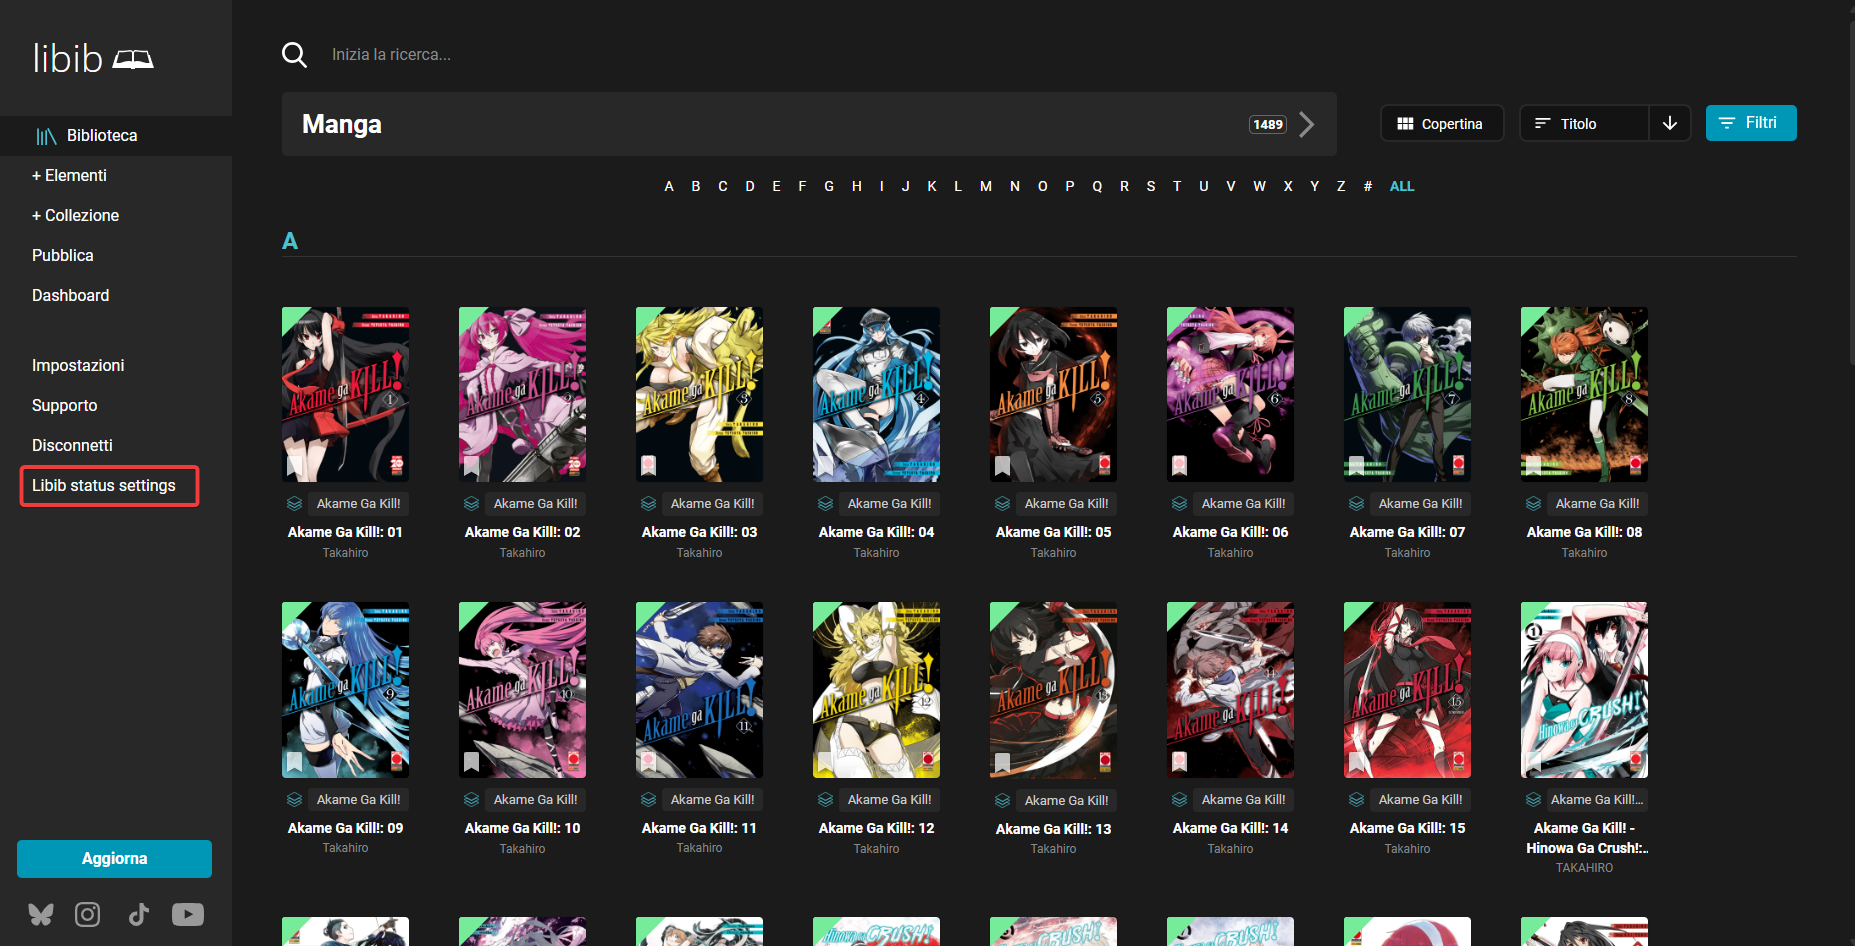
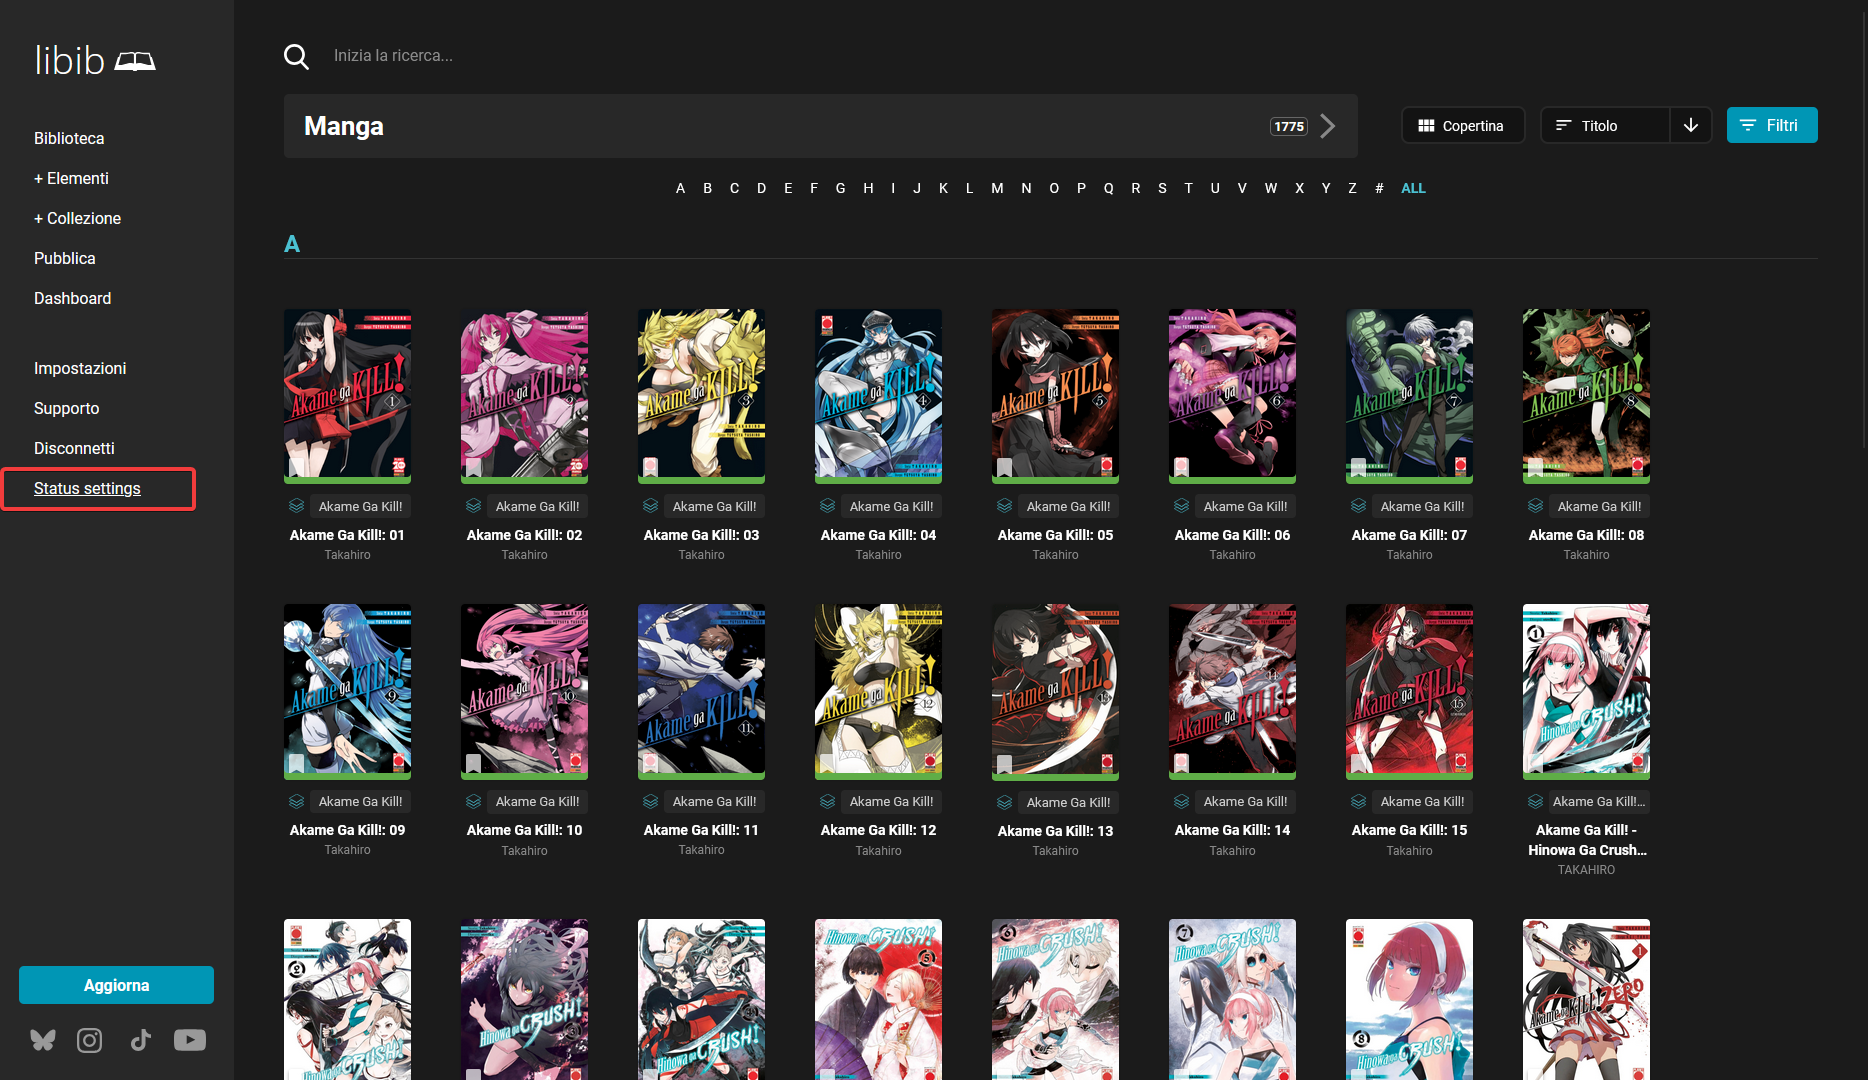
Changed settings button
- Changed the settings button from "Libib status settings" to "Status settings"
- Added COG icon on hover
- Updated readme image and links

diff --git a/Libib-Custom-Status-Style.user.js b/Libib-Custom-Status-Style.user.js
@@ -6,8 +6,8 @@
 // @author             JetpackCat
 // @namespace          https://github.com/JetpackCat-IT/libib-custom-status-style
 // @supportURL         https://github.com/JetpackCat-IT/libib-custom-status-style/issues
-// @icon               https://github.com/JetpackCat-IT/libib-custom-status-style/raw/v1.0.0/img/icon_64.png
-// @version            2.0.0
+// @icon               https://cdn.jsdelivr.net/gh/JetpackCat-IT/libib-custom-status-style/img/icon_64.png
+// @version            2.1.0
 // @license            GPL-3.0-or-later; https://raw.githubusercontent.com/JetpackCat-IT/libib-custom-status-style/master/LICENSE
 // @match              https://www.libib.com/library
 // @icon               https://www.libib.com/img/favicon.png
@@ -17,12 +17,35 @@
 // @grant              GM_setValue
 // @grant              GM.getValue
 // @grant              GM.setValue
-// @downloadURL        https://update.greasyfork.org/scripts/526007/Libib%20-%20Custom%20status%20indicator%20style.user.js
-// @updateURL          https://update.greasyfork.org/scripts/526007/Libib%20-%20Custom%20status%20indicator%20style.meta.js
+// @downloadURL https://update.greasyfork.org/scripts/526007/Libib%20-%20Custom%20status%20indicator%20style.user.js
+// @updateURL https://update.greasyfork.org/scripts/526007/Libib%20-%20Custom%20status%20indicator%20style.meta.js
 // ==/UserScript==
 
 (function () {
   "use strict";
+
+  const COG_SVG = 'https://cdn.jsdelivr.net/gh/JetpackCat-IT/libib-custom-status-style/img/assets/cog.svg';
+  
+  // CSS for script items
+  const script_css_style = `
+    #libib-status-settings-link>a {
+        text-decoration: underline;
+    }
+    ul#primary-menu li#libib-status-settings-link a.active  {
+        text-indent: 0px; !important;
+    }
+    ul#primary-menu li#libib-status-settings-link:hover a.active  {
+        text-indent: 35px !important;
+    }
+    li#libib-status-settings-link a:hover {
+        background: url('${COG_SVG}') no-repeat left 40px center #fff;
+        background-size: 20px auto;
+    }
+    .dark li#libib-status-settings-link a:hover {
+        background: url('${COG_SVG}') no-repeat left 40px center #1b1b1b;
+        background-size: 20px auto;
+    }
+  `;
 
   // Get libib sidebar menu. The settings button will be added to the sidebar
   const libib_sidebar_menu = document.getElementById("primary-menu");
@@ -30,11 +53,12 @@
   // Create the element, it needs to be an <a> tag inside an <li> tag
   const settings_button_a = document.createElement("a");
   settings_button_a.appendChild(
-      document.createTextNode("Libib status settings")
+      document.createTextNode("Status settings")
   );
 
   // Create <li> element and insert <a> element inside
   const settings_button_li = document.createElement("li");
+  settings_button_li.id = "libib-status-settings-link"
   settings_button_li.appendChild(settings_button_a);
 
   // Assign click event handler to open the menu settings
@@ -341,6 +365,8 @@
       const no_blur_on_hover = GM_settings.get("noBlurOnHover");
 
       let css_style = "";
+
+      css_style += script_css_style;
       // Make libib buttons still clickable
       css_style += `
       .quick-edit-link{

diff --git a/README.md b/README.md
@@ -13,8 +13,8 @@ Here you can see a before and after:\
 
 ## How to install
 
-1. Install a Userscript Manager like [Tampermonkey](https://www.tampermonkey.net/)
-2. Install **Libib - Custom status indicator style** by clicking **[here](../../raw/v1.0.0/Libib-Custom-Status-Style.user.js)**
+1. Install a Userscript Manager like [Violentmonkey](https://violentmonkey.github.io/) or [Tampermonkey](https://www.tampermonkey.net/)
+2. Install **Libib - Custom status indicator style** by clicking **[here](https://raw.githubusercontent.com/JetpackCat-IT/libib-custom-status-style/main/Libib-Custom-Status-Style.user.js)**
 
 Mirrors:
 
@@ -26,9 +26,9 @@ Mirrors:
 
 1. Access your library on [libib.com](https://libib.com/library)
 2. You should see a new menu item on the sidebar called **"Libib status settings"**
-![Sidebar settings](img/readme/script-settings-1.png)
+   ![Sidebar settings](img/readme/script-settings-1.png)
 3. After clicking it, a window will open, in this window you can change the settings as you like
-![Window settings](img/readme/script-settings-2.png)
+   ![Window settings](img/readme/script-settings-2.png)
 
 You can choose between **Triangle** (default) or **Border**, you can also choose the position of the indicator.
 If you choose the **Border** style, you can also choose the thickness
@@ -39,10 +39,11 @@ Here are all the possible combinations:
 
 In addition, you can also **blur** the cover of specific series (also known as groups).
 You can do this in two way:
+
 1. By clicking the **flag** icon on the item cover
-![Blur button](img/readme/blur-1.png)
+   ![Blur button](img/readme/blur-1.png)
 2. By adding manually the series name in the options
-![Blur option](img/readme/blur-3.png)
+   ![Blur option](img/readme/blur-3.png)
 
 Note that this option will blur **the entire series**
 ![Blur series](img/readme/blur-2.png)
